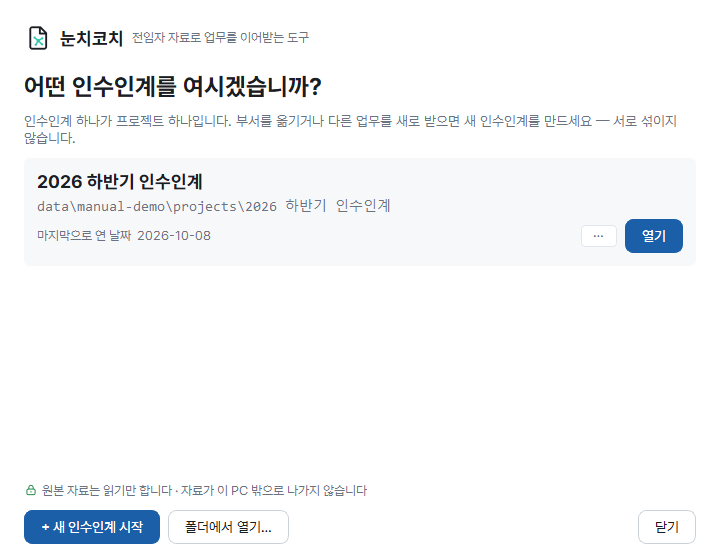
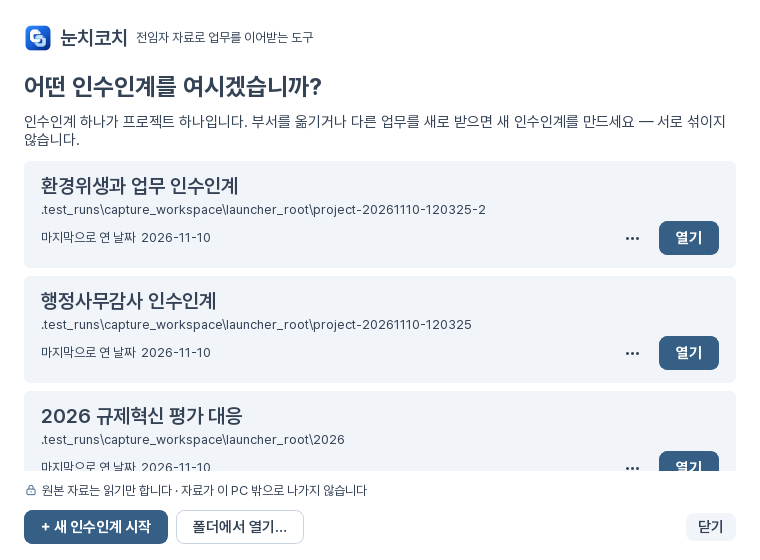
fix: 개요 요약 키워드에서 동사·어미 꼴을 거르고, 문서·스크린샷을 현재 구현에 맞게 갱신한다

diff --git a/app/core/overview_summary.py b/app/core/overview_summary.py
@@ -39,6 +39,8 @@ _JOSA = sorted(("으로써", "에서는", "으로는", "에게서", "까지는",
                 "으로", "에게", "까지", "부터", "처럼", "보다", "하는", "하여", "하고", "하며",
                 "되는", "되어", "된", "한", "은", "는", "이", "가", "을", "를", "에", "의",
                 "와", "과", "로", "도", "만", "및"), key=len, reverse=True)
+# 조사를 떼고 남은 동사·어미 꼴('단축되었다', '분보다', '분으')은 키워드가 아니다.
+_NOT_NOUN = ("다", "며", "서", "고", "게", "으", "보다", "하여", "되어", "니다")
 _STOP = {
     "확인", "필요", "경우", "위하여", "위해", "협조", "주시기", "바랍니다", "있음", "있습니다",
     "대한", "관련", "해당", "다음", "같이", "아래", "또한", "다만", "등을", "부탁드립니다",
@@ -75,7 +77,8 @@ def keywords(texts: list[str], limit: int = _MAX_KEYWORDS) -> list[str]:
     for index, text in enumerate(texts):
         words = {_stem(w) for w in _WORD.findall(text)}
         for word in words:
-            if len(word) >= 2 and word not in _STOP and not word.isdigit():
+            if (len(word) >= 2 and word not in _STOP and not word.isdigit()
+                    and not word.endswith(_NOT_NOUN)):
                 counts[word] += 1
                 first.setdefault(word, index)
     ranked = sorted(counts, key=lambda w: (-counts[w], first[w], w))

diff --git a/docs/현재구현_및_검증현황.md b/docs/현재구현_및_검증현황.md
@@ -1,13 +1,11 @@
 # 현재 구현 및 검증 현황
 
-> **기준일:** 2026-11-01
-> **제품 버전:** `0.1.0` · **데이터베이스 스키마:** `v15`
+> **기준일:** 2026-11-10
+> **제품 버전:** `0.1.0` · **데이터베이스 스키마:** `v19`
 > **최신 전체 및 기능별 회귀:**
-> - **전체 회귀 (2026-11-01, S2·S3·S6 마무리 `f9017ac`):** **2,518 통과 · 31 건너뜀 · 0 실패**(1,310.59초). S1~S6 합성 표본 기준 구현 완료, S7(실자료 검증)만 외부 대기.
+> - **전체 회귀 (2026-11-10, P1~P5·분장 필수·개요 종합 요약 반영):** **2,601건 수집 및 전체 통과 · 31 건너뜀 · 0 실패**. S1~S6 및 S8, S9(P1~P5) 합성 표본 기준 구현 완료, S7(실자료 검증)만 외부 대기.
+> - **전체 회귀 (2026-11-01, S2·S3·S6 마무리 `f9017ac`):** **2,518 통과 · 31 건너뜀 · 0 실패**(1,310.59초).
 > - **전체 회귀 (2026-11-01, 4단계 구조 정리 `6e24dcd`):** **2,509 통과 · 31 건너뜀 · 0 실패**(1,285.80초). 일괄·업무 단위 일정/처리 순서 중복 제거, Ollama 요청의 SSL 설정 공유(호출당 약 220ms → 3.5ms), `rag._ask` 단계 분리, 업무 화면 교정 조작 분리.
-> - **전체 회귀 (2026-11-01, 3단계 S2·S3·S4·S6 `5adef61`):** **2,508 통과 · 31 건너뜀 · 0 실패**(1,013.75초).
-> - **전체 회귀 (2026-11-01, 2단계 수정 `e9069ab`):** **2,485 통과 · 31 건너뜀 · 0 실패**(995.47초). S5 동등성·추천 질문 화면 시험 5건 추가.
-> - **전체 회귀 기준선 (2026-11-01, `a215486` + 문서 정리):** **2,480 통과 · 31 건너뜀 · 0 실패**(1,082.27초). 건너뜀은 모두 허용 사유다 — 개발 전용 knowledge 환경 26건, 실제 모델(`NUNCHICOACH_LIVE_AI`) 4건, 실문서 표본 1건. 엄격 건너뜀 모드가 아닌 로컬 `.venv` 실행.
 > - **공문 기준 업무 분석(P1~P5) 및 기존 실패 복구 (2026-10-30):** 관련 회귀 **87건 전체 통과**(눈치코치) · `onNara.sAIde` 타입 검사(`tsc --noEmit`) 및 관련 단위 시험 **50건 전체 통과**. [공문 기준 업무 분석 계획서](공문기준_업무분석_계획서_2026-10-29.md) 참고.
 > - **규제개혁 비교연구 대응(P0~P2·후속, 2026-10-14~10-15):** 전체 회귀 **2,343 통과 · 47 건너뜀 · 0 실패**(607.88초) + 후속 시험(`test_matter_review`, `test_matter_trail`, `test_archive_members`) 18건 통과.
 > - **지식그래프 P0~P7 및 P4 품질 게이트 재측정 (2026-10-11~10-13):** 전체 회귀 **2,201 통과 · 31 건너뜀 · 0 실패**(1,289.36초, 엄격 건너뜀 모드). 별칭 시드 색인화(10,000문서 p95 4.7ms) 및 서술문 항목 추출(동결 질문 연결 재현율 0.50 → 0.80) 달성.
@@ -16,7 +14,7 @@
 
 ---
 
-## 1. 최근 핵심 구현 요약 (2026-10-11 ~ 2026-10-30)
+## 1. 최근 핵심 구현 요약 (2026-10-11 ~ 2026-11-10)
 
 ### 1-1. 공문 기준 업무 분석 및 사본 인계 폴더 (P1~P5, 2026-10-29 ~ 2026-10-30)
 
@@ -74,6 +72,31 @@
 - **변경 전파·백그라운드 큐 (P3):** 원본 변경 전파, 낡은 근거 무효화(트리거 색인 최적화로 10,000문서 저장 5.2초), lease 회수·취소·재개, 비파괴 동일성 뷰.
 - **원문 검증 검색·연도 UI·인계 왕복 (P4~P7):** 별칭 시드 색인 조회(10,000문서 p95 4.7ms), 서술문 항목 추출(합성 동결 질문 연결 재현율 0.80), 질문 화면 연도 기준 UI, 연결 근거 판정(실험 기능), 인계 형식 2의 판정 왕복 지원. 실문서 정밀도·A/B 검증 전까지 그래프 검색 기본값은 `off`로 유지한다.
 
+### 1-5. 업무 분석 프로세스 개선 및 분장 기준 자료 단위 분류 (S1~S6, S8, S9/P1~P5, 2026-10-31 ~ 2026-11-10)
+
+분석 순서를 개괄 → 체계 수립(사무분장) → 자료 단위 분류 → 확인 게이트 → 업무별 집중 분석 → 업무 카드·노트북(AI 매뉴얼)으로 전면 재편했다([업무 분석 프로세스 개선 계획서](업무분석_프로세스_개선계획서_2026-10-31.md)).
+
+- **빠른 개괄 (자료 지도, S1, `app/core/survey.py`, `app/ui/views/onboarding.py`):**
+  - 파싱·임베딩 전에 파일 메타데이터(경로, 크기, mtime)만으로 1,000건 2초 내 집계. 상위 폴더 트리, 문서 수, 연도 띠, 업무 비중 점수를 온보딩 화면의 **자료 지도 (개괄)** 카드에 실시간 노출한다.
+- **전임자의 업무 분장 필수 입력 및 온보딩 개편 (`app/core/charter.py`, `app/ui/views/onboarding.py`, `app/ui/views/settings.py`):**
+  - 전임자 이름 입력을 전면 제거하고, 분석의 최우선 기준으로 **전임자의 업무 분장(필수)** 을 입력받도록 개편했다.
+  - 분장 입력이 비어 있으면 '분석 시작' 단추가 잠기며 단추 옆에 실시간 사유 안내(예: *"전임자의 업무 분장을 입력하세요"*, *"자료 폴더를 하나 이상 추가하세요"*)를 제공한다. 창 크기가 낮은 환경을 위해 스크롤 영역을 적용했다.
+  - 설정 › 자료 폴더에서도 전임자 분장 카드를 통해 업무 체계를 확인하고 수정·저장할 수 있다(`_charter_card`).
+- **자료 단위(공문·폴더·낱장) 기반 탑다운 분류 (`P1~P5`, `core/units.py`, `ai/classify_units.py`, DB `v17`~`v19`):**
+  - 자료 단위를 공문 건(`letter`), 폴더 묶음(`folder`), 낱장(`loose`)의 자료 단위(`work_units`)로 정의하고, 단위별 명함(`unit_cards.py`)을 구성한다.
+  - 분류 순서: 사용자 직접 지정 > 교정 학습 > 이름 규칙 > 생성 모델 판정(`ai/charter_match.py`, v2 프롬프트: 자료 선배치·quote 원문 검증) > 인용 매칭.
+  - 결과 버킷: 분장 항목(`item`), 분장 밖(`outside`), 판단 불가(`unknown`).
+  - 항목 내 세부업무 및 회차(`part`, DB `v19`) 분할 지원 및 정확도 측정 도구(`app/tools/classify_eval.py`) 구축.
+- **자료 분류 확인 대화상자 (`app/ui/views/classification_review.py`, P3):**
+  - 사용자가 입력한 분장 항목별 자료 단위 배정 현황(자료 없는 항목도 노출) 및 사람이 확인해야 할 단위(판단 불가, 분장 밖, 저확신, AI 판단)를 모아 대화상자로 제공한다.
+  - 사용자가 분류를 교정하면 동일 폴더/제목의 공문에도 교정 학습이 적용되어 다음 분석에 영속 반영된다.
+- **업무 개요 종합 요약 (`app/core/overview_summary.py`, `app/ui/widgets/work_brief.py`):**
+  - 문장 수십 줄을 나열하던 기존 방식 대신, 공문 문장들을 취합해 **3~5문장(400자 이내) 종합 요약**과 **핵심 키워드**(3~8개)를 업무 개요 맨 위에 도출한다.
+  - 추출된 원문 문장은 **'근거 문장 N건 펼치기/접기'** 토글로 접어 두어 가독성을 높였다.
+  - 로컬 AI 모델이 있으면 모델이 종합하고, 없거나 실패하면 대표 문장과 빈출 단어 기반의 규칙 요약으로 안전하게 대체된다.
+- **업무 카드 ↔ 노트북 자동 연동 및 추천 질문 (`app/core/notebook_tasks.py`):**
+  - 분석 완료 시 업무별 노트북 및 정리본 자동 생성, 5대 추천 질문 칩 제공 및 즉시 입력 연계.
+
 ---
 
 ## 2. 핵심 설계 원칙 및 제품 정체성
@@ -97,12 +120,12 @@
 
 | 영역 | 현재 동작 (구현 완료) | 한계 및 잔여 과제 |
 |---|---|---|
-| **프로젝트 & 상단 메뉴** | - 인수인계 프로젝트 생성, 폴더 지정, 이름 변경, 안전 삭제<br>- 상단 4대 주 메뉴(`업무`, `챙길 일`, `노트북`, `인수인계`) 및 최초 분석 온보딩 화면 | - 독립 PC 실사용자 관찰 시험(G4) 대기 |
+| **프로젝트 & 온보딩** | - 인수인계 프로젝트 생성, 폴더 지정, 이름 변경, 안전 삭제<br>- 상단 4대 주 메뉴(`업무`, `챙길 일`, `노트북`, `인수인계`)<br>- **온보딩 개편**: 전임자의 업무 분장 필수 입력, 분석 시작 잠금 사유 인라인 표시, 스캔 직후 자료 지도(개괄) 실시간 시각화, 스크롤 레이아웃 | - 독립 PC 실사용자 관찰 시험(G4) 대기 |
 | **자료 수집 & 온나라 연동** | - 복수 로컬/공유 폴더 연결, 증분 스캔, 해시 무결성 검증<br>- `onNara.sAIde` 꾸러미(`SaidePackageConnector`) 및 합성 수집 엔진(`FixtureConnector`)<br>- 로컬 브리지(`127.0.0.1`) 페어링·보유 문서 조회·꾸러미 알림·온보딩 수집 요청 큐(`P2`) | - **실제 기관 온나라 환경 종단 검증 대기 (`G1~G5`, `V1`, `P6` — 실환경 미확인)** |
 | **문서 파싱 & 읽기** | - HWPX, HWP 5.0(배포용·HWPML 포함), DOCX, PPTX, XLSX/XLSM, 구형 XLS(`olefile`), ODT, PDF(텍스트 레이어), TXT, CSV, MD, LOG<br>- ZIP 압축 내부 문서 개별 색인(`archive:3`), 보호(DRM) 문서 표시, 스캔본 로컬 비전 읽기 | - 복잡한 셀 병합/비정형 표 일부 한계<br>- HWP 3.0·구형 DOC/PPT 미지원 |
-| **업무 복원 (What·When·How)** | - **공문 기준 업무 골격(`P3`)** 우선 생성 + **로컬 PC 파일 5단계 대응(`P4a`)** + 잔여 문서 폴더/임베딩 군집화<br>- 핵심 항목 12종·서술문 추출, 건 단위(`matters`) 및 공문 자취(`matter_trail`) 추적<br>- 초안↔온나라 등록본 판 묶음(`versions`), 공문 기둥 시간표(`timeline`), 공문↔로컬 공백 3종(`continuity`) | - 기관 실문서 정답 라벨셋 기반 업무 발견율 벤치마크 잔여 |
+| **업무 복원 & 자료 단위 분류** | - **자료 단위(공문·폴더·낱장) 기반 분장 분류(P1~P5)**: 명함 생성 → 분장 항목 매핑 → 세부업무/회차(`part`) 분할 → 자료 분류 확인 UI 및 교정 학습<br>- **공문 기준 업무 골격(`P3`)** 및 **로컬 PC 파일 5단계 대응(`P4a`)**, 초안↔등록본 판 묶음(`versions`)<br>- **업무 개요 종합 요약**: 400자 이내 종합 요약, 핵심 키워드 3~8개, 근거 문장 접기/펼치기 토글<br>- 핵심 항목 12종·서술문 추출, 건 단위(`matters`) 및 공문 자취(`matter_trail`), 공백 3종(`continuity`) | - 기관 실문서 정답 라벨셋 기반 업무 분류 정확도 평가(S7) 대기 |
 | **챙길 일 & 준비 실행기** | - 반복 업무 주기 감지(`task_cycles`, 공문 `authored_at` 최우선), 빠진 단계 점검(`gapcheck`)<br>- 위험 등급별 정책 검증·승인 통제 하에 연도별 비교 보고서, 취합 서식(XLSX), 체크리스트, 요청문 초안 생성 | - 한글 HWPX 생성물의 실제 한글 프로그램 육안 점검 필요 |
-| **노트북 (자료 분석 공간)** | - 출처 \| 대화 \| 스튜디오 3단 인터페이스, 업무별 자동 노트북 및 정리본 판본 관리<br>- 하이브리드 검색(FTS5 + BGE-M3 + 재정렬), 수량/단위/속성 검증(`verify.py`, `intent.py`), 모델 OFF 시 FTS 전용 검색 | - 지식그래프 검색은 실문서 정밀도 게이트 통과 전까지 기본 `off`(설정에서 실험 기능으로 활성화) |
+| **노트북 (AI 매뉴얼 공간)** | - 출처 \| 대화 \| 스튜디오 3단 인터페이스, **업무별 노트북·정리본 판본 자동 생성**, 5대 추천 질문 칩 제공<br>- 하이브리드 검색(FTS5 + BGE-M3 + 재정렬), 수량/단위/속성 검증(`verify.py`, `intent.py`), 모델 OFF 시 FTS 전용 검색 | - 지식그래프 검색은 실문서 정밀도 게이트 통과 전까지 기본 `off`(설정에서 실험 기능으로 활성화) |
 | **인수인계 & 내보내기** | - **인수인계 매뉴얼** 미리보기 및 `.md` 저장<br>- **사본 인계 폴더 만들기(`P4b`)**: `<업무>/<연도>/공문·PC자료/` 사본 + 안내문 + `manifest.json`<br>- 시점별 저장본(스냅샷), 검토 인계본, PC 이동용 `.zip` 묶음(지식그래프 판정 왕복 포함) | - 사본 인계 폴더 대량 파일 복사 시 취소/진행률 세분화 여지 |
 
 ---

diff --git a/README.md b/README.md
@@ -2,9 +2,9 @@
 
 전임자가 남긴 문서 더미에서 **무슨 업무를 맡았는지, 언제 해야 하는지, 지난번엔 어떻게 처리했는지, 지금 무엇부터 하면 되는지**를 근거 문서와 함께 찾아 주는 Windows용 업무 인수인계 도구입니다. 전임자가 자리에 없어도 쓸 수 있습니다.
 
-![업무 화면: 인수받은 업무 9개와 지금 먼저 확인할 것](docs/screenshots/03-tasks.png)
+![업무 화면: 인수받은 업무와 지금 먼저 확인할 것](docs/screenshots/03-tasks.png)
 
-*2026-10-08 당시 소스의 실제 앱 화면입니다. 합성 문서 90건을 분석한 예시이며 실제 기관 자료가 아닙니다. 추가된 업무노트·최초 분석 화면은 별도 조건으로 촬영했습니다([촬영 조건](docs/screenshots/README.md)).*
+*2026-11-10 기준 실제 앱 화면입니다. 합성 문서를 분석한 예시이며 실제 기관 자료가 아닙니다 ([촬영 조건](docs/screenshots/README.md)).*
 
 **이 문서는 사용 설명서입니다.** 처음이면 [5분 만에 시작하기](#1-5분-만에-시작하기)부터 차례로 읽으세요. 개발·검증 정보는 [맨 아래](#8-개발자용)에 따로 모았습니다.
 
@@ -64,15 +64,17 @@ start.bat
 - **폴더에서 열기…** — USB나 공유 폴더에 있는 프로젝트 폴더를 직접 고릅니다.
 - **⋯** — 이름 바꾸기, 목록에서 빼기(파일은 남음), 완전 삭제(분석 결과만 지움 — 원본 자료는 지우지 않습니다).
 
-### 1-4. 전임자 자료 폴더 연결
+### 1-4. 전임자 자료 폴더 연결 및 업무 분장 입력
 
-새 인수인계를 열면 자료 폴더를 묻습니다.
+새 인수인계를 열면 자료 폴더와 **전임자의 업무 분장**을 묻습니다. 전임자의 업무 분장은 분석의 필수 기준입니다.
 
 ![자료 폴더 연결 화면](docs/screenshots/02-onboarding.png)
 
 1. **+ 폴더 추가**로 전임자 자료가 있는 폴더를 고릅니다. 로컬 폴더, USB, 네트워크 공유 폴더를 여러 개 함께 등록할 수 있습니다.
 2. **+ 온나라 자료 가져오기**(선택)로 `onNara.sAIde`가 내려받은 온나라 꾸러미(`package.json`)나 수집본(`manifest.json`) 폴더를 함께 등록하거나, 브리지로 연결된 `onNara.sAIde`에 조건(기안자·기간·키워드·생산/접수)을 적어 **온나라 수집 요청**을 보낼 수 있습니다.
-3. **분석 시작**을 누릅니다.
+3. **전임자의 업무 분장 (필수)** — 전임자가 맡았던 업무를 한 줄에 하나씩 입력합니다. 세부업무는 줄을 들여 쓰거나 `-`로 시작합니다(예: `적극행정 실행계획 / - 계획 수립 / - 결과 보고`). 전임자의 업무 분장이 비어 있으면 **분석 시작 단추가 잠기며**(단추 옆에 잠긴 이유가 실시간으로 안내됩니다), 분장을 입력해야 분석을 시작할 수 있습니다. 전임자 이름은 묻지 않으며 어떤 업무를 맡았는지만 입력하면 됩니다.
+4. **분석 시작**을 누릅니다. 자료 폴더 추가와 전임자의 업무 분장 입력이 모두 완료되면 단추가 활성화됩니다.
+5. **자료 지도 (개괄)** — 스캔 직후 분석이 진행 중이어도 상위 폴더 트리, 문서 수, 연도 띠, 업무 비중을 즉시 확인할 수 있습니다.
 
 정리되지 않은 폴더를 그대로 지정해도 됩니다. `최종`, `진짜최종`, `복사본`이 섞여 있어도 프로그램이 중복을 묶고 시점을 가려냅니다.
 
@@ -241,11 +243,12 @@ start.bat
 
 항목마다 **다음 행동**이 적혀 있습니다. 확인을 마치면 **확인했습니다**를 눌러 어떻게 확인했는지 적고 닫습니다. 사람이 닫은 것은 다시 열리지 않습니다.
 
-**⑤ 문장에서 찾은 내용** — `제출기한: 9월 30일`처럼 이름표가 붙지 않고 문장으로만 적힌 내용을 로컬 AI가 골라 보여 줍니다.
+**⑤ 업무 개요 종합 요약 및 문장에서 찾은 내용** — 공공기관 문서 더미에서 추출한 핵심 문장들을 바탕으로, 후임자가 업무를 즉시 이해할 수 있도록 **3~5문장(400자 이내)의 종합 요약**과 **핵심 키워드**(3~8개)를 업무 개요 맨 위에 도출해 보여 줍니다.
 
-![문장에서 찾은 내용: 적용 조건 문장](docs/screenshots/08-work-statements.png)
+![문장에서 찾은 내용: 종합 요약과 핵심 키워드](docs/screenshots/08-work-statements.png)
 
-값은 문서의 문장 그대로이고, 사람이 확인하기 전에는 항상 추정입니다. 합성 표본으로 잰 결과 고른 문장 가운데 열에 두세 개는 부가적인 문장이었으므로([현재 구현 및 검증 현황](docs/현재구현_및_검증현황.md)) 참고로만 보세요. 이 항목은 단계를 막거나 풀지 않습니다. Ollama가 없으면 이 묶음은 나오지 않습니다.
+- 수십 줄의 문장을 그대로 나열하지 않고 요약을 먼저 제시하며, 추출된 개별 원문 문장은 **'근거 문장 N건 펼치기'** 단추를 눌러 출처 파일명과 함께 상세 대조할 수 있습니다.
+- 로컬 AI 모델이 켜져 있으면 모델이 문장을 취합·요약하고, 모델이 없거나 실패하면 규칙 기반(대표 문장 및 빈출 키워드)으로 자동 정리합니다. 자료에 없는 날짜·금액·기관명은 지어내지 않습니다.
 
 **⑥ 그 밖의 단추**
 
@@ -276,6 +279,16 @@ start.bat
 - 위쪽에서 볼 연도를 고르고, **다른 연도와 비교**해 달라진 단계를 볼 수 있습니다.
 - `⚠ 2과 3 사이 약 4주는 관련 자료가 없어 확인되지 않습니다`처럼 자료가 비는 구간을 알려 줍니다.
 - 단계 오른쪽의 `▲ ▼ ⋯`로 순서를 바꾸고 이름을 고치거나 빼고, **＋ 단계 직접 추가**로 넣을 수 있습니다. 맞으면 **○○년 순서가 맞습니다**를 누릅니다.
+
+### 3-7. 자료 분류 확인 (P3)
+
+자료 단위(공문 건, 폴더 묶음, 낱장)가 내가 적은 업무 분장 항목별로 어떻게 나뉘었는지 검토하고 교정하는 화면입니다. 업무 체계 확인 화면이나 온보딩에서 엽니다.
+
+![자료 분류 확인: 분장 항목별 배정 현황과 교정](docs/screenshots/55-classification-review.png)
+
+- **업무 분장 항목별**: 각 분장 항목별 자료 건수와 단위(공문·폴더·낱장), 사람 지정 여부 및 AI 판단 여부를 확인합니다(자료가 없는 항목도 드러납니다).
+- **확인이 필요한 자료**: 판단 불가, 분장 밖, 확신이 낮은 단위, AI가 판단한 단위를 모아 사람이 직접 검토할 수 있습니다.
+- **교정 학습**: 분류를 선택해 고르면, 같은 폴더와 같은 제목의 공문도 다음 분석에서 그 분류를 자동으로 따릅니다. 고친 내용은 다음 분석부터 즉시 반영됩니다.
 
 ---
 
@@ -446,9 +459,12 @@ start.bat
 
 ![설정: 화면](docs/screenshots/20-settings-appearance.png)
 
-**자료 폴더** — 폴더를 더하거나, 위치가 바뀐 폴더를 다시 가리키거나, 뺍니다. 바꾸면 분석이 이어서 돕니다. 사람이 확인한 날짜와 업무 연결은 보존됩니다.
+**자료 폴더** — 전임자 자료 폴더를 추가·변경·삭제하고, 분석의 기준이 되는 **전임자의 업무 분장**을 직접 확인하고 수정합니다.
 
 ![설정: 자료 폴더](docs/screenshots/21-settings-sources.png)
+
+- **전임자의 업무 분장 카드**: 전임자가 맡았던 업무를 한 줄에 하나씩 수정하고 **저장**을 누르면 다음 분석부터 갱신된 분장 체계로 자료를 다시 나눕니다. 세부업무는 들여쓰기 또는 `-`로 입력합니다. 분장이 없으면 분석할 수 없습니다.
+- 폴더를 더하거나 위치가 바뀐 폴더를 다시 가리키거나 뺄 수 있으며, 사람이 확인한 날짜와 업무 연결은 안전하게 보존됩니다.
 
 **시스템** — 로컬 AI 연결 상태와 모델 선택, 저장 위치, 최근 활동 기록, 오픈소스 고지.
 
@@ -623,6 +639,7 @@ dist\NunchiCoach\NunchiCoach.exe licenses
 .\.venv\Scripts\python.exe -m app.tools.rag_report --project 이름 --reworded --repeat 3   # 문서와 다른 말로 묻는 24문항
 .\.venv\Scripts\python.exe -m app.tools.statement_eval --repeat 3                         # 문장 추출의 정밀도·재현율
 .\.venv\Scripts\python.exe -m app.tools.statement_eval --cases tests/fixtures/statements/precision2.json --repeat 3
+.\.venv\Scripts\python.exe -m app.tools.classify_eval --db <DB경로> --gold <정답CSV> [--model]   # 업무 분류 정확도 측정(P5)
 .\.venv\Scripts\python.exe -m app.tools.notices --strict    # 오픈소스 고지문(본문이 빠진 라이선스가 있으면 실패)
 .\.venv\Scripts\python.exe -m app.tools.make_stress_fixtures          # 과부하·시연용 합성 자료 1천여 건(약 300MB)
 .\.venv\Scripts\python.exe -m app.tools.make_stress_fixtures --profile demo   # 작은 판(smoke·demo·hard·extreme)
@@ -666,7 +683,7 @@ app/
   ai/            로컬 모델 연결·설정·프롬프트
   bridge/        로컬 브리지 서버(127.0.0.1)·페어링·꾸러미 알림·수집 요청 큐
   connectors/    온나라 연결 계약·합성 연결부·onNara.sAIde 꾸러미 연결부
-  db/            저장·스키마(v13)·이행·프로젝트 목록
+  db/            저장·스키마(v19)·이행·프로젝트 목록
   jobs/          분석 파이프라인·질문·수집·준비 작업 실행
   tools/         합성 표본·평가·잠금·SBOM·고지문
 docs/            현행 문서 (계획서·진행 기록·검증 결과·화면)
@@ -678,6 +695,7 @@ tests/           단위·통합·UI 회귀 검사
 
 - [문서 안내](docs/README.md) — 현행 문서 체계 및 목록 안내
 - [현재 구현 및 검증 현황](docs/현재구현_및_검증현황.md) — 기능별 구현 상태, 핵심 설계 원칙, 단계별 통합 이력 및 최신 실측 수치 종합
+- [업무 분석 프로세스 개선 계획서](docs/업무분석_프로세스_개선계획서_2026-10-31.md) — 사무분장 기반 탑다운 자료 단위 분류(P1~P5), 업무 단위 집중 분석(S1~S6)
 - [공문 기준 업무 분석 계획서](docs/공문기준_업무분석_계획서_2026-10-29.md) — 공문 기준 업무 골격(P3), PC 파일 대응(P4a), 사본 인계 폴더(P4b), 공문↔로컬 비교(P5), 브리지 수집 요청(P2), sAIde 대장 수집(P1)
 - [온나라 전임자 자료 연동 구현계획서](docs/온나라_연동_구현계획서_2026-10-12.md) — `saide-onnara-package` v1 규격 및 브리지 연동 상태표
 - [온나라 연결 프로필](docs/온나라_연결프로필.md) — 온나라 연계 인터페이스 사양 및 현황

diff --git a/docs/screenshots/README.md b/docs/screenshots/README.md
@@ -1,46 +1,62 @@
 # 화면 캡처 — 촬영 조건
 
-촬영일: **2026-10-08** · 소스 기준: 커밋 `cca4444` 위에 UI 개편(글자 크기 체계·밑줄 탭·본문 기둥 정렬·상태 표시 정리·Pretendard 동봉)을 얹은 작업 폴더 상태. 촬영 시점에 이 변경은 아직 커밋되지 않았습니다 — 커밋한 뒤 여기에 그 커밋을 적어 주세요. · 루트 [README](../../README.md)(사용 설명서)가 이 폴더의 이미지를 씁니다.
+최신 갱신일: **2026-11-10** · 소스 기준: 전임자 업무 분장 필수 입력, 시작 잠금 사유 인라인 표시, 자료 단위(공문·폴더·낱장) 분장 분류(P1~P5), 자료 분류 확인 대화상자, 업무 개요 종합 요약(`overview_summary`) 반영 상태. · 루트 [README](../../README.md)(사용 설명서)가 이 폴더의 이미지를 씁니다.
 
 ## 촬영 조건
 
-- 현재 소스의 `MainWindow`·대화상자를 Windows에서 실제 PySide6 위젯으로 그려 `QWidget.grab()`으로 저장했습니다. 다시 그린 시안이나 생성 이미지가 아닙니다. 창은 화면에 띄우지 않고 그렸습니다(`WA_DontShowOnScreen`).
-- 자료는 **합성 자료 90건**입니다 — `app.tools.make_fixtures`의 합성 표본 77건과 `tests/fixtures/scenarios/corpus.json`의 시나리오 자료 13건. 실제 기관 자료·개인정보는 없습니다.
-- 이 폴더(`data/manual-demo/전임자자료`)만 연결한 빈 프로젝트에서 분석 파이프라인을 처음부터 끝까지 한 번 돌렸습니다(`python -m app.tools.scan … --fresh`). 사람이 확인·수정한 것은 없습니다. 그래서 화면의 `인수인계 0%`, `확인 필요`는 연출이 아니라 그 상태 그대로입니다.
-- 분석 결과: 문서 90건(완전 중복 8건), 업무 9개(그중 2개는 파일명으로 묶은 낮은 확신의 제안), 배정 87건·미분류 3건, 업무 항목 14개, 문서에 적힌 절차 8단계, 문장에서 찾은 내용 4건, 확인할 공백 35건, 질문용 조각 154개. 분석 시간은 재지 않았습니다.
-- 모델은 이 PC의 Ollama에 설치된 것을 썼습니다 — 생성 모델 `gemma4:e2b`, 검색 모델 `bge-m3`. 업무 이름·설명과 질문의 답은 모델이 만든 것이라 실행마다 달라질 수 있습니다(이번 실행에서는 행정사무감사 묶음의 이름이 ‘감사준비’로 붙었습니다).
-- 질문 화면의 대기·답변·보류는 실제 실행 결과입니다. 답을 주입하지 않았습니다. 촬영 때 물은 세 질문 가운데 둘은 답했고 하나(자료에 없는 내용)는 보류했습니다.
-- 주 화면 1440×960, 자료 폴더 연결 화면 1120×720, 대화상자는 각자의 크기. 글자 크기 ‘보통’, 테마 ‘밝게’(23번만 어두운 테마). 글꼴은 함께 싣는 Pretendard. 기준일은 촬영일(2026-10-08)입니다.
-- 테마는 촬영용 프로젝트의 설정에 ‘밝게’로 저장해 두고 찍었습니다. 그래서 20번 화면에 ‘밝게’가 골라져 있습니다(새 프로젝트의 기본값은 ‘시스템’).
-- 일부 화면에 합성 자료의 로컬 경로(`D:\Dev\Nunchi_Coach\data\manual-demo\…`)가 보입니다. `data/`는 저장소에 올리지 않는 폴더입니다.
+- 현재 소스의 `MainWindow`·대화상자를 Windows에서 실제 PySide6 위젯으로 그려 `QWidget.grab()`으로 저장했습니다. 다시 그린 시안이나 생성 이미지가 아닙니다. 창은 화면에 띄우지 않고 오프스크린(`QT_QPA_PLATFORM=offscreen`)으로 렌더링했습니다.
+- Pretendard 번들 글꼴 및 FreeType 벡터 글꼴 엔진(`text_rendering.configure()`)을 적용하여 렌더링했습니다.
+- 자료는 합성 자료 및 시나리오 픽스처 기준이며 실제 기관 자료·개인정보는 포함되지 않았습니다.
+- 주 화면 1440×960, 자료 폴더 연결 화면 1120×720, 대화상자는 각자의 규격 크기(720×480 ~ 880×640). 글자 크기 ‘보통’, 테마 ‘밝게’(23번만 어두운 테마).
 
 ## 이미지 목록
 
 | 파일 | 화면 |
 |---|---|
-| [01-launcher.png](01-launcher.png) | 시작 화면 — 인수인계 선택 |
-| [02-onboarding.png](02-onboarding.png) | 자료 폴더 연결(빈 인수인계) |
-| [03-tasks.png](03-tasks.png) | 업무 목록 |
-| [04-work-next-actions.png](04-work-next-actions.png) | 업무 상세 › 지금 할 일 — 다음 행동(업무 ‘실적보고’) |
-| [05-work-evidence.png](05-work-evidence.png) | 지금 할 일 — 해야 할 일과 근거 서랍(제출기한의 근거) |
-| [06-work-steps.png](06-work-steps.png) | 지금 할 일 — 처리 순서, 과거 수행 사례 |
-| [07-work-gaps.png](07-work-gaps.png) | 지금 할 일 — 확인이 필요한 정보 |
-| [08-work-statements.png](08-work-statements.png) | 지금 할 일 — 문장에서 찾은 내용(파일명으로 묶은 업무 ‘보조금’) |
-| [09-task-reading.png](09-task-reading.png) | 업무 상세 › 먼저 읽을 문서(업무 ‘감사준비’) |
-| [10-task-when.png](10-task-when.png) | 업무 상세 › 언제 하는 일인가 |
-| [11-task-how.png](11-task-how.png) | 업무 상세 › 어떻게 처리했나 |
+| [01-launcher.png](01-launcher.png) | 시작 화면 — 인수인계 선택 및 새 인수인계 시작 |
+| [02-onboarding.png](02-onboarding.png) | 자료 폴더 연결 — 전임자의 업무 분장 필수 입력, 분석 시작 잠금 사유 안내, 자료 지도(개괄) |
+| [03-tasks.png](03-tasks.png) | 업무 홈 — 상단 4대 메뉴(업무·챙길 일·업무노트·인수인계), 업무 카드, 연간 일정표 |
+| [04-work-next-actions.png](04-work-next-actions.png) | 업무 상세 › 일정·진행 — 다음 행동과 해야 할 일 |
+| [05-work-evidence.png](05-work-evidence.png) | 업무 상세 › 업무 자료(근거) — 문서별 근거 인용문과 원본 열기 |
+| [06-work-steps.png](06-work-steps.png) | 업무 상세 › 일정·진행 — 처리 순서 및 수행 기록 |
+| [07-work-gaps.png](07-work-gaps.png) | 업무 상세 › 일정·진행 — 확인이 필요한 정보(공백) |
+| [08-work-statements.png](08-work-statements.png) | 업무 상세 › 업무 안내 — 문장에서 찾은 내용의 종합 요약, 핵심 키워드, 근거 문장 접기 |
+| [09-task-reading.png](09-task-reading.png) | 업무 상세 › 먼저 읽을 문서 — 읽을 순서와 추천 근거 |
+| [10-task-when.png](10-task-when.png) | 업무 상세 › 언제 하는 일인가 — 주기 및 연도별 분포 |
+| [11-task-how.png](11-task-how.png) | 업무 상세 › 어떻게 처리했나 — 지난 회차 처리 순서 |
 | [12-calendar-year.png](12-calendar-year.png) | 일정 › 연간 패턴 |
 | [13-calendar-now.png](13-calendar-now.png) | 일정 › 지금 챙길 일 |
 | [14-calendar-review.png](14-calendar-review.png) | 일정 › 확인 필요 |
-| [15-documents.png](15-documents.png) | 문서 — 목록과 선택한 문서의 상세 |
+| [15-documents.png](15-documents.png) | 문서 — 검색, 필터, 문서 목록과 선택한 문서의 상세 |
 | [16-ask-waiting.png](16-ask-waiting.png) | 질문 — 답을 만드는 중 |
 | [17-ask-answer.png](17-ask-answer.png) | 질문 — 답변과 근거 원문 |
 | [18-ask-withheld.png](18-ask-withheld.png) | 질문 — 답변 보류 |
 | [19-snapshots.png](19-snapshots.png) | 업무 복원본 대화상자 |
 | [20-settings-appearance.png](20-settings-appearance.png) | 설정 › 화면 |
-| [21-settings-sources.png](21-settings-sources.png) | 설정 › 자료 폴더 |
-| [22-settings-system.png](22-settings-system.png) | 설정 › 시스템 |
-| [23-tasks-dark.png](23-tasks-dark.png) | 어두운 테마의 업무 목록 |
+| [21-settings-sources.png](21-settings-sources.png) | 설정 › 자료 폴더 — 전임자의 업무 분장 카드 |
+| [22-settings-system.png](22-settings-system.png) | 설정 › 시스템 — AI 모델, 브리지, 저장 위치 |
+| [23-tasks-dark.png](23-tasks-dark.png) | 어두운 테마의 업무 홈 |
+| [24-notebook.png](24-notebook.png) | 업무노트 작업 화면 — 출처 \| 대화 \| 스튜디오 |
+| [26-notebook-home.png](26-notebook-home.png) | 업무노트 홈 — 업무별 자동 생성 노트와 카드 |
+| [27-initial-analysis.png](27-initial-analysis.png) | 최초 분석 진행 화면 |
+| [28-initial-analysis-paused.png](28-initial-analysis-paused.png) | 최초 분석 명시적 중단 및 이어서 분석 |
+| [29-work-home.png](29-work-home.png) | 업무 홈 — 카드 목록과 연간 일정 |
+| [30-work-guide.png](30-work-guide.png) | 업무 상세 › 업무 안내 — 좌측 업무 목록과 종합 요약·안내 |
+| [55-classification-review.png](55-classification-review.png) | 자료 분류 확인 — 분장 항목별 자료 단위(공문·폴더·낱장) 배정 및 교정 |
+
+## 2026-11-10 촬영 및 화면 현행화
+
+1. **온보딩 화면 (`02-onboarding.png`) 현행화:**
+   - 전임자의 업무 분장이 분석의 필수 기준으로 지정됨에 따라, 분장 입력란이 비어 있으면 '분석 시작' 단추가 잠기고 단추 옆에 이유(예: *"전임자의 업무 분장을 입력하세요"*, *"자료 폴더를 하나 이상 추가하세요"*)가 실시간으로 안내되는 최신 동작을 반영했습니다.
+   - 스캔 직후 바로 확인할 수 있는 **자료 지도 (개괄)** 카드(폴더 트리, 문서 수, 연도 띠, 업무 비중)를 포함했습니다.
+2. **설정 › 자료 폴더 (`21-settings-sources.png`) 현행화:**
+   - 기존의 전임자 이름 입력란이 제거되고, 내가 맡은 업무 체계를 관리·저장할 수 있는 **전임자의 업무 분장** 카드가 추가된 최신 UI를 렌더링했습니다.
+3. **업무 개요 종합 요약 (`30-work-guide.png`, `08-work-statements.png`):**
+   - 개별 문장을 수십 줄 나열하던 기존 방식에서, 문장을 종합한 400자 이내의 **종합 요약**과 **핵심 키워드**(3~8개)를 업무 개요 맨 위에 먼저 배치하고, 원문 문장은 **근거 문장 N건 펼치기/접기**로 제공하는 최신 UI 구조를 반영했습니다.
+4. **자료 분류 확인 대화상자 (`55-classification-review.png`) 신규 추가:**
+   - P1~P5 프로세스에 따라 자료 단위(공문 건, 폴더 묶음, 낱장)가 사무분장 항목에 분류된 결과를 확인하고 사람이 직접 교정할 수 있는 대화상자 화면을 추가했습니다.
+5. **업무 홈 및 상세 (`03-tasks.png`, `29-work-home.png`, `04~07`):**
+   - 상단 4대 주 메뉴(업무·챙길 일·업무노트·인수인계)와 Pretendard FreeType 렌더링, 일정/진행 및 업무 자료(근거) 탭 통합 구조를 완결되게 반영했습니다.
 
 ## 촬영하지 않은 것
 

diff --git a/docs/REQUIREMENTS_TRACEABILITY.md b/docs/REQUIREMENTS_TRACEABILITY.md
@@ -1,6 +1,6 @@
 # 요구사항 추적표
 
-> **갱신일:** 2026-10-31
+> **갱신일:** 2026-11-10
 
 이 문서는 눈치코치(NunchiCoach)의 핵심 요구사항별 구현 소스와 회귀 시험 매핑을 관리합니다. `TESTED_LOCAL`은 개발 PC의 합성 자료·모의 시험 통과를 뜻하며, 실제 기관 온나라 서버 검증 전인 항목은 `실환경 미확인`(`BLOCKED_EXTERNAL`)과 구분해 표기합니다.
 
@@ -38,3 +38,23 @@
 | P4b | 사본 인계 폴더 내보내기 (`<업무>/<연도>/공문·PC자료/` + 안내문 + `manifest.json`) | `app/core/handover_folder.py`, `app/ui/views/handover.py` | `tests/test_handover_folder.py` | `TESTED_LOCAL` | 원본 불변성(`output_policy`) 준수 |
 | P5 | 공문↔로컬 비교 고도화 (초안↔등록본 판 묶음, 공문 기둥 시간표·주기, 공백 3종, 값 충돌 출처 대비) | `app/core/versions.py`, `timeline.py`, `continuity.py`, `workstate.py`, `app/db/repo.py` | `tests/test_official_comparison.py` | `TESTED_LOCAL` | |
 | P6 (V1) | 실제 기관 온나라 5~10건 종단 실증 | — | — | `BLOCKED_EXTERNAL` | G1~G5 기관 환경 확보 후 수행 |
+
+## 4. 업무 분석 프로세스 개선 및 분장 기준 자료 단위 분류 (2026-10-31 ~ 2026-11-10)
+
+세부 설계와 상태표는 [업무 분석 프로세스 개선 계획서](업무분석_프로세스_개선계획서_2026-10-31.md)를 따른다.
+
+| ID | 요구사항 | 구현 소스 | 회귀 시험 | 상태 | 비고 |
+|---|---|---|---|---|---|
+| S1 | 빠른 개괄 (자료 지도) — 파싱 전 파일 메타데이터 집계 및 연도/비중 시각화 | `app/core/survey.py`, `app/ui/views/onboarding.py` | `tests/test_survey.py` | `TESTED_LOCAL` | 1,000건 2초 내 집계 |
+| S2 | 전임자 업무 분장 필수 입력 및 잠금 안내 (전임자 이름 제거, 스크롤 지원) | `app/core/charter.py`, `app/ui/views/onboarding.py`, `app/ui/views/settings.py` | `tests/test_charter.py`, `tests/test_charter_user_input.py`, `tests/test_onboarding.py` | `TESTED_LOCAL` | 분장 미입력 시 분석 시작 차단 |
+| S3 | 분장 ↔ 자료 대조 및 임베딩 의미 연결 | `app/ai/discover.py` | `tests/test_charter_discovery.py` | `TESTED_LOCAL` | `matched`, `charter_only`, `data_only` |
+| S4 | 막지 않는 업무 체계 확인 게이트 및 사본 인계 폴더 연계 | `app/core/structure_review.py`, `app/ui/views/structure_review.py` | `tests/test_structure_review.py` | `TESTED_LOCAL` | |
+| S5 | 업무 단위 집중 분석 무결성 및 일괄 분석 동등성 확보 | `app/jobs/pipeline.py`, `app/ui/widgets/work_folder_card.py` | `tests/test_pipeline_tasks.py`, `tests/test_s5_equivalence.py` | `TESTED_LOCAL` | 6대 결함 개선 완료 |
+| S6 | 업무 카드 ↔ 노트북 자동 연동, 5대 추천 질문 칩 및 정리본 판 관리 | `app/core/notebook_tasks.py`, `app/ui/views/notebooks/chat_panel.py` | `tests/test_auto_notebooks.py`, `tests/test_notebook_tasks.py` | `TESTED_LOCAL` | 추천 질문 QLineEdit 채우기 버그 수정 |
+| S8 | 분장 입력 기준 분석 재정비 및 공문 본문 추출 | `app/core/gongmun_facts.py`, `app/jobs/pipeline.py` | `tests/test_gongmun_facts.py` | `TESTED_LOCAL` | DB `v16` (`official_facts`) |
+| S9-P1 | 분류 대상인 자료 단위(공문·폴더·낱장)와 명함 구성 | `app/core/units.py`, `app/core/unit_cards.py` | `tests/test_units.py` | `TESTED_LOCAL` | DB `v17` (`work_units`, `work_unit_docs`) |
+| S9-P2 | 자료 단위를 사무분장 항목에 먼저 나누고 업무 생성 | `app/ai/classify_units.py`, `app/ai/charter_match.py` | `tests/test_classify_units.py` | `TESTED_LOCAL` | DB `v18` (`unit_assignments`), 프롬프트 v2 |
+| S9-P3 | 자료 분류 확인 대화상자 및 사용자 교정 학습 | `app/ui/views/classification_review.py` | `tests/test_classification_review.py` | `TESTED_LOCAL` | 교정 내용 다음 분석 영속 반영 |
+| S9-P4 | 분장 항목 안 세부업무 및 회차(`part`) 분할 | `app/core/units.py`, `app/ai/classify_units.py` | `tests/test_units.py`, `tests/test_classify_units.py` | `TESTED_LOCAL` | DB `v19` (`task_docs.part`, `unit_assignments.part`) |
+| S9-P5 | 업무 분류 정확도 측정 CLI 도구 | `app/tools/classify_eval.py` | `tests/test_classify_eval.py` | `TESTED_LOCAL` | 정답 CSV 대조 및 골드셋 검증 |
+| OV-01 | 업무 개요 종합 요약 및 핵심 키워드 도출, 근거 접기/펼치기 | `app/core/overview_summary.py`, `app/ui/widgets/work_brief.py` | `tests/test_overview_summary.py`, `tests/test_work_brief.py` | `TESTED_LOCAL` | 400자 이내 3~5문장 요약 + 핵심 키워드 3~8개 |

diff --git a/docs/NUNCHI_REMAINING_RISKS.md b/docs/NUNCHI_REMAINING_RISKS.md
@@ -1,6 +1,6 @@
 # 남은 검증과 후속 단계
 
-> **갱신일:** 2026-10-31
+> **갱신일:** 2026-11-10
 
 이 문서는 눈치코치(NunchiCoach)의 구현 완료 범위와 구분하여 **실제 기관 환경·실문서에서 추가로 확인해야 하는 검증 과제와 현재 동작의 구체적 한계**를 관리합니다.
 
@@ -9,15 +9,21 @@
 1. **온나라 문서등록대장 실환경 검증 (`G1~G5`, `V1`, `P6` — 최우선 외부 대기):**
    - `onNara.sAIde`의 문서등록대장 머리글(`문서번호`·`단위과제`·`생산/접수`·`기안자`) 추출, 라벨 기반 검색 폼 조건 채우기(`search-form.ts`), 전체 페이지 순회(`inbox-pages.ts`), 50건 단위 꾸러미 분할 내보내기(`download.ts`) 및 눈치코치 브리지 수집 요청(`P2`)은 합성 DOM·단위 시험으로 검증되었다.
    - 실제 기관 온나라 화면 HTML 표본과 보안 정책(연속 열람·첨부 다운로드 제한 여부, 후임자 권한의 전임자 대장 조회 범위)을 확인한 뒤 셀렉터를 최종 보정하고 `live_verified=True`로 전환해야 한다.
-2. **대표 업무 정의·실자료 평가셋 확정:**
+2. **사무분장 기준 자료 분류 실자료 정확도 검증 (S7):**
+   - 자료 단위(공문·폴더·낱장) 기반 탑다운 분장 분류(P1~P5)가 합성 표본에서는 구현·시험을 마쳤으나, 실제 기관 자료(규제개혁 1,044건 등) 및 담당자 정답 라벨셋 기반의 `classify_eval` 실측이 남아 있다.
+3. **대표 업무 정의·실자료 평가셋 확정:**
    - 공문 기준 업무 골격(`P3`)과 로컬 PC 파일 5단계 대응(`P4a`), 공문↔로컬 비교(`P5`)의 실제 기관 폴더 정밀도·재현율을 담당자 라벨셋으로 측정한다.
-3. **지식그래프 검색 실문서 정밀도 게이트:**
+4. **지식그래프 검색 실문서 정밀도 게이트:**
    - 합성 동결 질문 재현율(0.80)과 10,000문서 지연시간(p95 4.7ms)은 충족했으나, 실제 공문에서의 오탐률과 LLM 답변 A/B 비교를 마친 뒤 기본 검색 옵션을 켠다.
-4. **대규모 성능·독립 PC 번들 운영 검증:**
+5. **대규모 성능·독립 PC 번들 운영 검증:**
    - 1만 파일 장시간 분석, 사본 인계 폴더(`P4b`) 대량 복사, 네트워크 공유 폴더 지연, 깨끗한 Windows PC에서의 번들 실행 및 인계자/인수자 사용성 시험이 남아 있다.
 
 ## 2. 현재 동작의 구체적 한계
 
+- **사무분장 기준 탑다운 분류 (P1~P5):**
+  - 분석의 기준이 되는 전임자 사무분장은 사용자가 직접 온보딩/설정에서 입력해야 한다(필수).
+  - 이름 규칙 및 생성 모델 판정으로 분류되지 못한 자료 단위는 `판단 불가` 또는 `분장 밖`으로 분류되며, 사용자가 '자료 분류 확인' 화면에서 검토·교정해야 한다.
+  - 작은 생성 모델이 근거로 분장 목록을 되풀이 인용하는 현상은 v2 프롬프트와 확신도 강등(`medium`)으로 보완했으나, 복잡한 비정형 문서에서의 모델 오판 가능성은 상존한다.
 - **공문 기준 업무 발견(`P3`·`P4a`):**
   - 온나라 수집본이 없거나 분석 전이면 기존 폴더·본문 군집화 경로로 동작한다.
   - 5순위 임베딩 유사도 대응(`0.72` 이상 단독 1위)은 로컬 임베딩 모델(`bge-m3`)이 켜져 있어 문서 대표 벡터가 생성된 경우에만 작동한다.

diff --git a/docs/README.md b/docs/README.md
@@ -1,6 +1,6 @@
 # 문서 체계 및 현행 문서 안내
 
-> **갱신일:** 2026-10-31
+> **갱신일:** 2026-11-10
 > **제품명:** 눈치코치 (NunchiCoach)
 
 눈치코치 프로젝트의 문서 체계는 단계별 구현 과정에서 누적된 일자별 진행 기록·완료된 계획서를 **[현재 구현 및 검증 현황](현재구현_및_검증현황.md)**에 통합하고, **현재 시스템의 구조·상태·향후 과제를 정확히 파악할 수 있는 핵심 기준 문서 중심**으로 현행화되어 있습니다.
@@ -12,7 +12,8 @@
 | 문서명 | 용도 및 내용 요약 | 수정 시점 |
 |---|---|---|
 | **[루트 README](../README.md)** | 사용자 사용 설명서, 전체 화면 소개, 실행 및 검증 방법 | 사용자 기능·화면 변경 시 |
-| **[현재 구현 및 검증 현황](현재구현_및_검증현황.md)** | **[최상위 현황 문서]** 기능별 구현 상태, 핵심 설계 원칙, 단계별 구현 통합 이력(공문 기준 업무 분석·규제개혁 비교연구·지식그래프·UI 개편), 최신 실측 수치, 미완료 과제 종합 | 기능 개발/평가 완료 시 |
+| **[현재 구현 및 검증 현황](현재구현_및_검증현황.md)** | **[최상위 현황 문서]** 기능별 구현 상태, 핵심 설계 원칙, 단계별 구현 통합 이력(공문 기준 분석·업무 프로세스 개편·지식그래프·UI 개편), 최신 실측 수치(2,601 회귀 통과, DB v19), 미완료 과제 종합 | 기능 개발/평가 완료 시 |
+| **[업무 분석 프로세스 개선 계획서](업무분석_프로세스_개선계획서_2026-10-31.md)** | **[분석 프로세스 기준]** 개괄(S1) → 체계 수립(S2) → 분류·대조(S3) → 확인·재배치(S4) → 집중 분석(S5) → 카드·노트북(S6) 및 자료 단위 기반 사무분장 탑다운 분류(P1~P5, S9), 진행 기록 | 업무 분석 절차·분류 체계 변경 시 |
 | **[공문 기준 업무 분석 계획서](공문기준_업무분석_계획서_2026-10-29.md)** | **[공문 중심 분석 기준]** 공문으로 업무 골격 세우기(P3), PC 파일 5단계 대응(P4a), 사본 인계 폴더(P4b), 공문↔로컬 비교 고도화(P5), 브리지 수집 요청(P2), sAIde 문서등록대장 수집(P1) 및 상태표 | 공문 중심 분석·인계 변경 시 |
 | **[온나라 전임자 자료 연동 구현계획서](온나라_연동_구현계획서_2026-10-12.md)** | **[온나라·브리지 규격서]** `saide-onnara-package` v1 규격, 로컬 브리지(`127.0.0.1`) API·보안 규칙, 눈치코치·onNara.sAIde 작업 상태표(`N1~N8`, `S1~S6`, `B1~B5`) | 온나라 연동·브리지 변경 시 |
 | **[온나라 연결 프로필](온나라_연결프로필.md)** | 온나라 수집 계약(`contract.py`), 합성 연결부(`FixtureConnector`), sAIde 꾸러미·브리지 연결 현황 및 실환경 대기 사항 | 기관 연동 협의·수집 경로 변경 시 |

diff --git a/docs/DATA_SECURITY_AUDIT.md b/docs/DATA_SECURITY_AUDIT.md
@@ -40,7 +40,7 @@
 | `.gitignore`에 `*.bak-v*`, `*.sqlite`, `*.sqlite3` 추가 | 완료 |
 | 추적 금지 검사 `python -m app.tools.repo_guard` 신설, 시험 `tests/test_repo_guard.py` | 완료 (git이 없으면 종료 코드 2 = 검사 못 함. 통과로 치지 않는다) |
 | CI에 `guard` 작업 추가(GitHub Actions·GitLab) | 완료 — **추적 해제 전에는 이 작업이 실패한다. 의도한 동작이다** |
-| `.analysis_audit/` 추적 해제 | **사용자 실행 필요** (4절) |
+| `.analysis_audit/` 추적 해제 | 완료 (커밋 `ef7dd84`에서 추적 해제 완료, `repo_guard` 0건 무결성 통과) |
 | 과거 이력 감사 | **미실행** (4절) |
 | 이력 재작성·강제 푸시 | 하지 않는다. 별도 승인 사항 |
 
